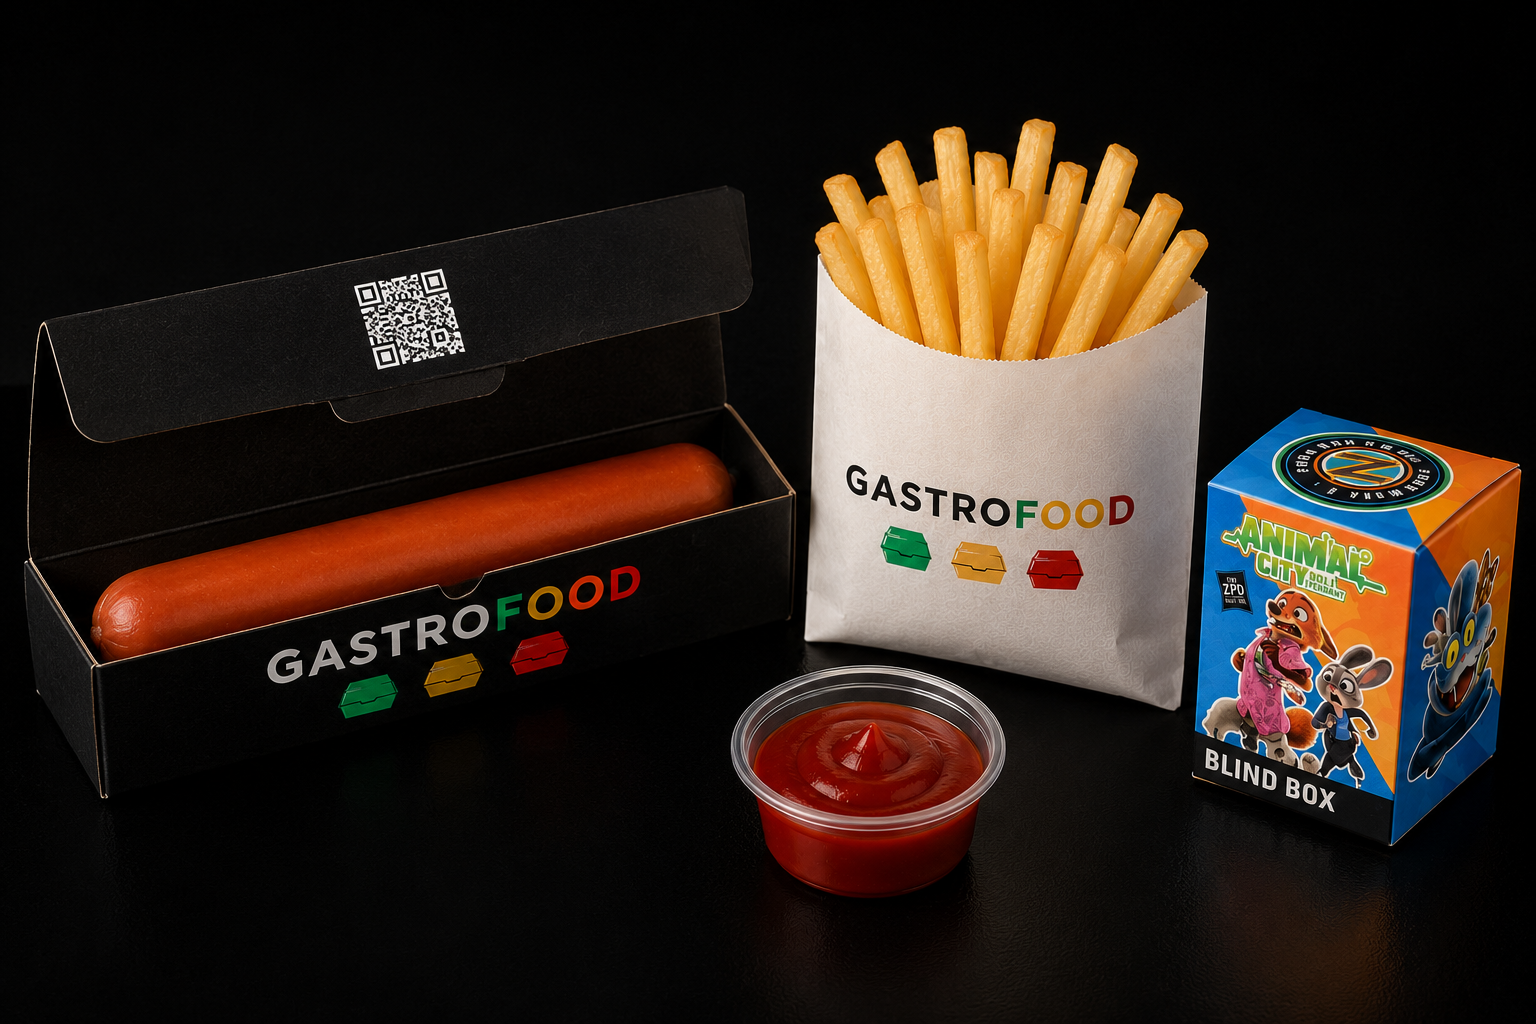
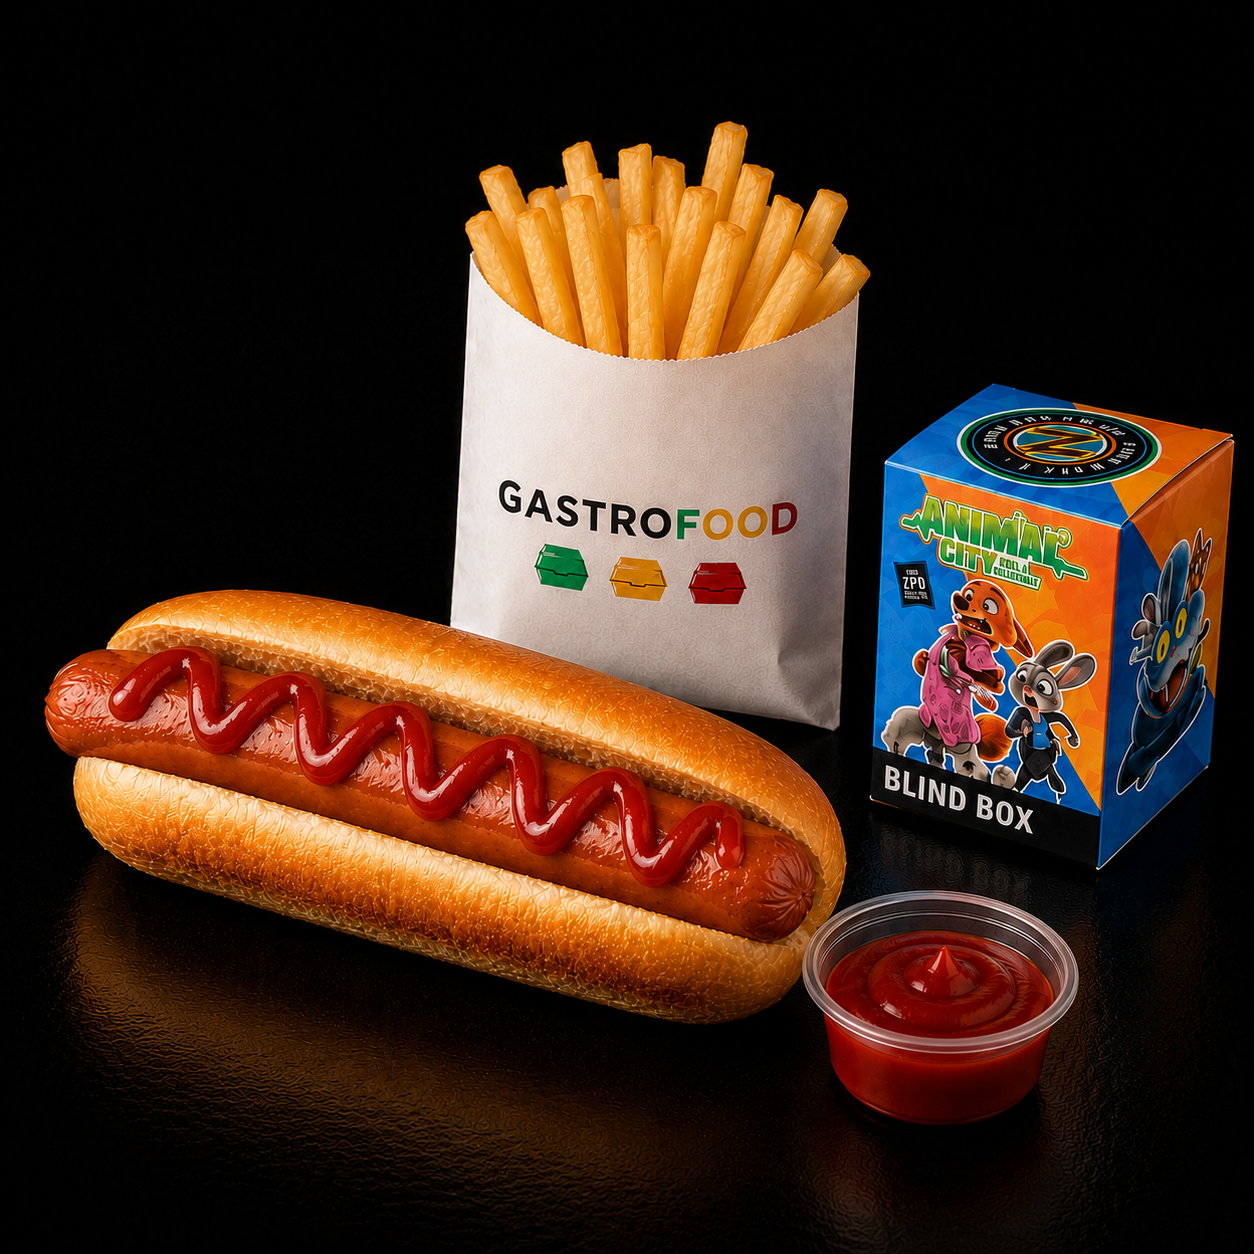
Update kids combos: hot dog replaces sausage, add soup combo.
Kids hot dog combo with classic hot dog, fries and toy; new soup combo with chicken soup, fries and toy. Prices TBD.

diff --git a/food/app.js b/food/app.js
@@ -496,14 +496,23 @@ const MENU_ITEMS = [
     image: IMG("KIDS-COMBO-NUGGETS.png"),
   },
   {
-    id: "kids-sausage-combo",
-    name: "Детский комбо с сосиской",
-    description:
-      "Стандартная сосиска, картофель фри, сок или напиток и игрушка-сюрприз.",
+    id: "kids-hot-dog-combo",
+    name: "Детский комбо с хот-догом",
+    description: "Классический хот-дог, картофель фри и игрушка-сюрприз.",
     price: null,
     category: "kids",
     badge: "hit",
     image: IMG("KIDS-COMBO-SAUSAGE.png"),
+    imageFocusY: 52,
+  },
+  {
+    id: "kids-soup-combo",
+    name: "Детский комбо с супом",
+    description: "Куриный суп, картофель фри и игрушка-сюрприз.",
+    price: null,
+    category: "kids",
+    badge: "hit",
+    image: IMG("KIDS-COMBO-SOUP.png"),
     imageFocusY: 52,
   },
 
